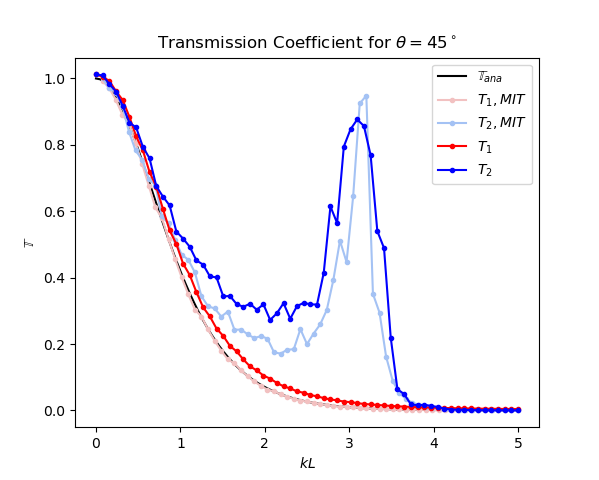
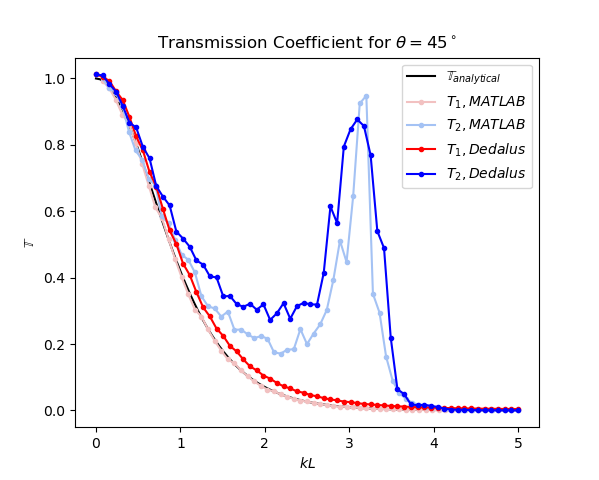
Added dark mode option for plot

Changed region(s): [[0.6611, 0.1562, 0.8715, 0.4062]]

diff --git a/_experiments/repro_Ghaemsaidi_1and2_l/plot_1and2l_exp_data2.py b/_experiments/repro_Ghaemsaidi_1and2_l/plot_1and2l_exp_data2.py
@@ -74,7 +74,7 @@ def combine_exp_csv_files(csv_files, output_file):
 all_exp_data = combine_exp_csv_files(csv_files, "all_exp_data.csv")
 all_MIT_data = combine_exp_csv_files(MIT_files, "all_MIT_data.csv")
 
-def plot_T_vs_kL(all_exp_data, all_MIT_data, theta, omega, title_str='Transmission Coefficient', filename='pres_64s_1and2l_T_vs_kL.png'):
+def plot_T_vs_kL(all_exp_data, all_MIT_data, theta, omega, title_str='Transmission Coefficient', filename='pres_64s_1and2l_T_vs_kL.png', d_mode=False):
     """
     Plots the transmission coefficient as a function of kL
 
@@ -88,16 +88,20 @@ def plot_T_vs_kL(all_exp_data, all_MIT_data, theta, omega, title_str='Transmissi
     kL_ana = np.linspace(all_exp_data[0,0], all_exp_data[-1,0], 100)
     ana_data = hf.SY_eq2_4(theta, kL_ana)
     # Plot line for analytical solution
-    axes.plot(kL_ana, ana_data, color='black', label=r'$\mathbb{T}_{ana}$')
+    if d_mode:
+        ana_clr = 'w'
+    else:
+        ana_clr = 'k'
+    axes.plot(kL_ana, ana_data, color=ana_clr, label=r'$\mathbb{T}_{analytical}$')
     # Get colors
     plt_clrs = ['r', 'b']
     MIT_clrs = [hf.my_clrs['warm-salty'], hf.my_clrs['cold-fresh']]
     # Plot points from MIT MATLAB code
     for i in range(1,all_MIT_data.shape[1]):
-        axes.plot(all_MIT_data[:,0], all_MIT_data[:,i], color=MIT_clrs[i-1], marker='.', label=rf'$T_{i},MIT$')
+        axes.plot(all_MIT_data[:,0], all_MIT_data[:,i], color=MIT_clrs[i-1], marker='.', label=rf'$T_{i},MATLAB$')
     # Plot points from measurements in simulations
     for i in range(1,all_exp_data.shape[1]):
-        axes.plot(all_exp_data[:,0], all_exp_data[:,i], color=plt_clrs[i-1], marker='.', label=rf'$T_{i}$')
+        axes.plot(all_exp_data[:,0], all_exp_data[:,i], color=plt_clrs[i-1], marker='.', label=rf'$T_{i},Dedalus$')
     axes.legend()
     # Add labels and titles
     axes.set_xlabel(r'$kL$')
@@ -108,3 +112,8 @@ def plot_T_vs_kL(all_exp_data, all_MIT_data, theta, omega, title_str='Transmissi
 
 file_name = exp_name + '.png'
 plot_T_vs_kL(all_exp_data, all_MIT_data, theta, omega, filename=file_name)
+
+# dark mode
+file_name_d = exp_name + '_d.png'
+plt.style.use('dark_background')
+plot_T_vs_kL(all_exp_data, all_MIT_data, theta, omega, filename=file_name_d, d_mode=True)
